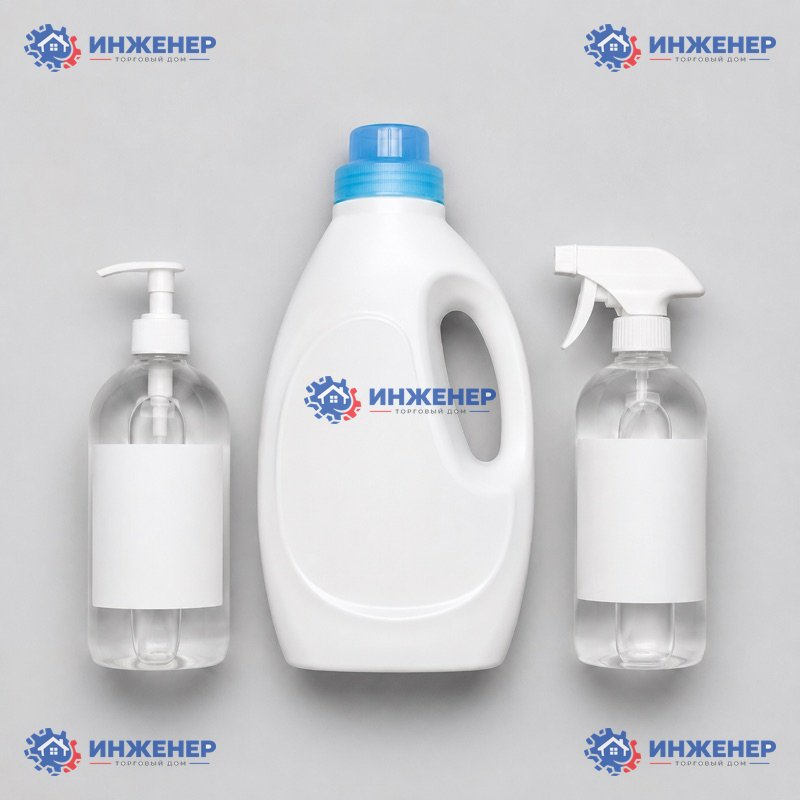
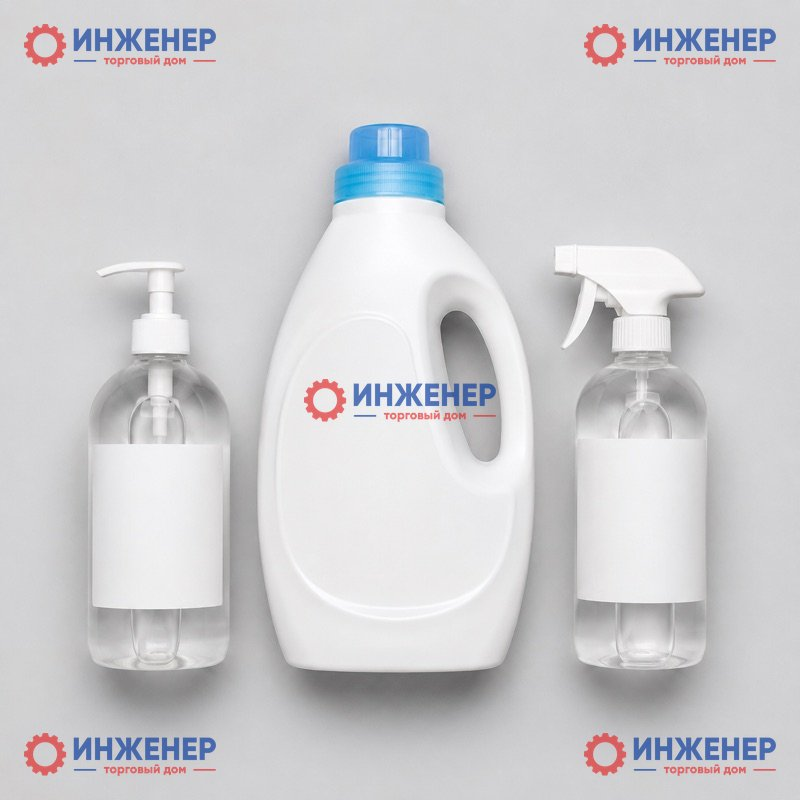
feat(media): водяной знак — логотип шапки с одной красной шестерёнкой
Владелец (15.11.2026): знак на скачанных фото — логотип из шапки сайта без
синей шестерёнки с домиком: красная шестерёнка + «ИНЖЕНЕР» / «торговый дом».
- assets/watermark-site-1gear.png (из f3f8573 от 02.11) — и для скачанных
  копий (цветной, на тёмном белый), и для видимого знака (серый, сейчас off).
- watermark.png удалён; копии разделов public/categories/save пересозданы.
- _MARK_STYLE=10 — копии пересоздаются, старые убирает автоочистка.

diff --git a/backend/app/services/media_variants.py b/backend/app/services/media_variants.py
@@ -76,11 +76,14 @@ WATERMARKED = {"thumb", "card", "og", "save", "thumb_save"}
 # Копии «для сохранения» — со знаком MEDIA_WATERMARK_SAVE (остальные — MEDIA_WATERMARK).
 SAVE_SIZES = {"save", "thumb_save"}
 # Версия оформления знака: входит в имя копии — менять при смене рисования.
-_MARK_STYLE = 8
+_MARK_STYLE = 10
 _ASSETS = os.path.join(os.path.dirname(os.path.dirname(__file__)), "assets")
-# Логотип (шестерёнка с домиком, «ИНЖЕНЕР», «ТОРГОВЫЙ ДОМ» с линиями) — = frontend/public/logo.png.
-# Видимый знак — его серая форма, скачанные копии — он сам в цветах бренда (макет владельца).
-_LOGO_PATH = os.path.join(_ASSETS, "watermark.png")
+# Знак — логотип из шапки сайта с ОДНОЙ (красной) шестерёнкой: «ИНЖЕНЕР», «торговый дом»
+# с линиями; синяя шестерёнка с домиком отрезана (решение владельца 15.11.2026). Растр
+# frontend/public/logo.svg (sharp, 150 dpi), прозрачный фон. Скачанные копии — он в цветах
+# бренда (на тёмном — белый), видимый знак на сайте (когда включат) — его серая форма.
+_LOGO_PATH = os.path.join(_ASSETS, "watermark-site-1gear.png")
+_VISIBLE_PATH = _LOGO_PATH
 # Значок вкладки (шестерёнка с домиком на белом круге) — вариант видимого знака «icon».
 _ICON_PATH = os.path.join(_ASSETS, "watermark-icon.png")
 
@@ -146,7 +149,7 @@ def _variant_path(name: str, size: str, st: os.stat_result) -> str:
 def _asset_version(kind: str) -> int:
     """Версия картинки знака (входит в имя копии): размер файла."""
     try:
-        return os.stat(_ICON_PATH if kind == "icon" else _LOGO_PATH).st_size
+        return os.stat({"icon": _ICON_PATH, "logo": _VISIBLE_PATH}.get(kind, _LOGO_PATH)).st_size
     except OSError:
         return 0
 
@@ -163,18 +166,26 @@ def _shape(im: Image.Image) -> Image.Image:
     return ImageChops.subtract(im.getchannel("A"), whiteness)
 
 
-@lru_cache(maxsize=1)
-def _logo_images() -> tuple[Image.Image, Image.Image]:
-    """Логотип для знака: (маска формы L, цветной RGBA), обрезанные по содержимому.
-
-    Маска — для серого видимого знака и белой версии на тёмном фоне (белые детали — домик —
-    остаются «окнами»); цветной — для скачанных копий на светлых участках.
-    """
-    with Image.open(_LOGO_PATH) as im:
+def _load_mark(path: str) -> tuple[Image.Image, Image.Image]:
+    """Картинка знака: (маска формы L, цветной RGBA), обрезанные по содержимому. Маска — для
+    серого знака и белой версии на тёмном фоне (белые детали — домик — остаются «окнами»)."""
+    with Image.open(path) as im:
         color = im.convert("RGBA")
     shape = _shape(color)
     box = shape.getbbox()
     return (shape.crop(box), color.crop(box)) if box else (shape, color)
+
+
+@lru_cache(maxsize=1)
+def _logo_images() -> tuple[Image.Image, Image.Image]:
+    """Логотип шапки с одной шестерёнкой — для скачанных копий (цветной; белый на тёмном)."""
+    return _load_mark(_LOGO_PATH)
+
+
+@lru_cache(maxsize=1)
+def _visible_images() -> tuple[Image.Image, Image.Image]:
+    """Логотип шапки с одной шестерёнкой — для серого видимого знака на сайте."""
+    return _load_mark(_VISIBLE_PATH)
 
 
 def _tone_for(img: Image.Image, box: tuple[int, int, int, int]) -> tuple[int, int, int]:
@@ -241,8 +252,9 @@ def _apply_watermark(img: Image.Image, mode: str, opacity: float, kind: str = "l
     """Накладывает знак на уже уменьшенную копию.
 
     ``kind``:
-      * ``logo`` — серая форма логотипа (:func:`_logo_images`), тон под фон — видимый знак;
-      * ``brand`` — тот же логотип в цветах бренда (копии «для сохранения»: их видит только
+      * ``logo`` — серая форма логотипа шапки с одной шестерёнкой (:func:`_visible_images`),
+        тон под фон — видимый знак;
+      * ``brand`` — тот же логотип с одной шестерёнкой в цветах бренда (копии «для сохранения»: их видит только
         тот, кто сохранил фото). На тёмном участке — белым, иначе синий пропадает;
       * ``icon`` — только значок (иконка вкладки, на белом круге).
 
@@ -258,7 +270,7 @@ def _apply_watermark(img: Image.Image, mode: str, opacity: float, kind: str = "l
         if icon:
             logo = _icon()
         else:
-            shape_full, color_full = _logo_images()
+            shape_full, color_full = _logo_images() if brand else _visible_images()
             logo = shape_full
     except Exception as e:  # noqa: BLE001
         log.error("media_variants: нет картинки для водяного знака: %s", e)

diff --git a/backend/tests/test_media_variants.py b/backend/tests/test_media_variants.py
@@ -330,21 +330,27 @@ def test_watermark_tiny_image_no_crash(monkeypatch):
 def test_watermark_missing_logo_still_no_original(monkeypatch):
     """Нет картинки логотипа → копия без знака (ошибка в лог), но не оригинал в полном размере."""
     monkeypatch.setattr(settings, "MEDIA_WATERMARK", "corner")
-    monkeypatch.setattr(mv, "_LOGO_PATH", "/nonexistent/logo.png")
-    mv._logo_images.cache_clear()
+    monkeypatch.setattr(mv, "_VISIBLE_PATH", "/nonexistent/logo.png")
+    mv._visible_images.cache_clear()
     try:
         media.save_image("w.png", _white((2400, 1600)))
         im = _open(mv.get_variant("w.png", "card"))
         assert im.size == (900, 600) and not _region_changed(im, (0, 0, 900, 600))
     finally:
-        mv._logo_images.cache_clear()
+        mv._visible_images.cache_clear()
 
 
 def test_watermark_assets_exist():
-    assert os.path.isfile(mv._ICON_PATH) and os.path.isfile(mv._LOGO_PATH)
-    shape, color = mv._logo_images()
+    for path in (mv._ICON_PATH, mv._LOGO_PATH, mv._VISIBLE_PATH):
+        assert os.path.isfile(path), path
+    shape, color = mv._logo_images()                                # скачанные копии
+    one, _ = mv._visible_images()                                   # видимый знак
     assert shape.mode == "L" and color.mode == "RGBA" and shape.size == color.size
     assert shape.width > 3 * shape.height                           # логотип вытянутый
+    assert one.size == shape.size                                   # один и тот же логотип
+    # одна (красная) шестерёнка: в левой части логотипа нет синего (синяя шестерёнка отрезана)
+    left = color.crop((0, 0, color.height, color.height)).getdata()
+    assert not any(a > 128 and b > 120 and r < 60 for r, g, b, a in left)
 
 
 def test_admin_media_product_photo_gets_save_copy(client, db_session, variants_on, monkeypatch):

diff --git a/backend/scripts/make_static_save_copies.py b/backend/scripts/make_static_save_copies.py
@@ -5,7 +5,7 @@
 главной лежит невидимый слой с копией из ``public/categories/save/`` (как у фото товаров),
 и эти копии делаются этим скриптом тем же кодом водяного знака, что и на бэкенде.
 
-Перезапускать при смене логотипа (``app/assets/watermark.png``) или картинок разделов::
+Перезапускать при смене логотипа (``app/assets/watermark-site-1gear.png``) или картинок разделов::
 
     docker compose cp frontend/public/categories backend:/tmp/cats
     docker compose exec -T backend sh -c \
